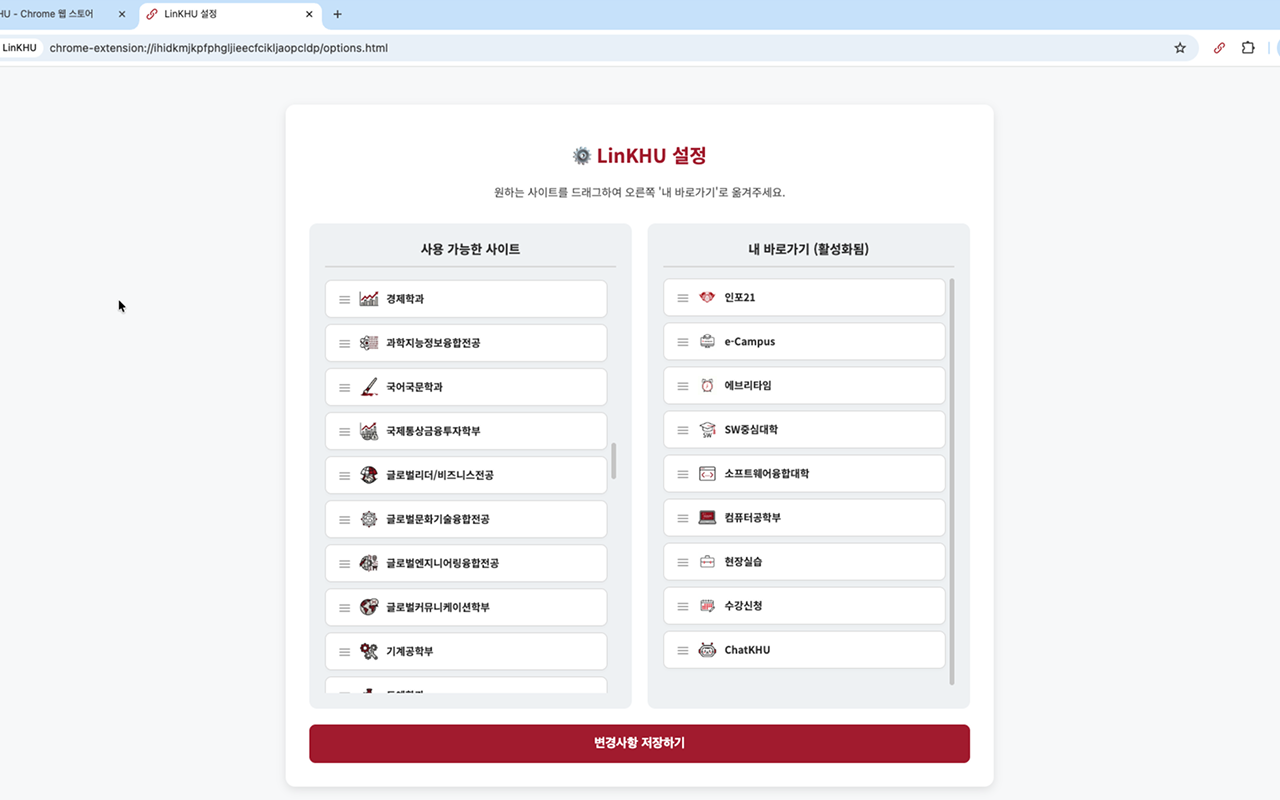
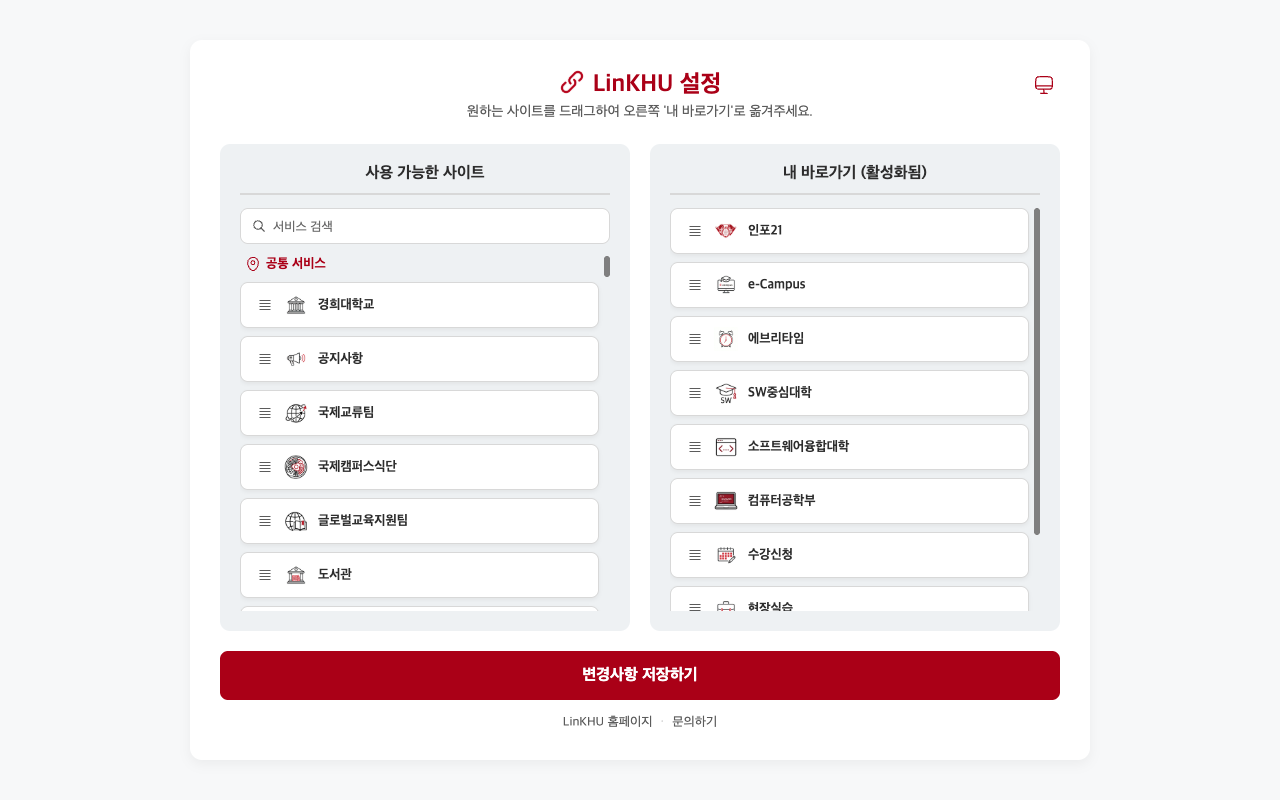
docs: 스크린샷을 v2.4.0 기준으로 교체하고 촬영 기준 문서화
기존 3장은 2026-06-23 촬영본으로 v2.3.1 화면이었다. 경희 공식 색상, 테마
순환 토글, 설정 제목의 서비스 로고, Reicon UI 아이콘, 배경이 투명해진 서비스
아이콘, 이모지가 사라진 카테고리 제목이 하나도 반영되어 있지 않았다.

파일명은 그대로 두어 랜딩과 README의 경로를 고치지 않아도 되게 했다.

- screenshot.png 1280x800 (동일) — 포털 화면에 팝업을 합성한 히어로
- screenshot-options.png 1280x800 (동일)
- screenshot-popup.png 322x377 -> 640x894 (표시 기준 320x447, 2배 해상도)

팝업만 세로 비율이 바뀌었다. v2.3.1에는 없던 검색창과 하단 링크가 늘어난
결과다. 랜딩의 width/height를 표시 기준 1배 치수인 320x447로 고쳤다. 파일
픽셀값을 적으면 두 배 크기로 자리를 잡는다.

.popup-frame은 고정 높이나 종횡비가 없고 height: auto라 이미지 비율이 그대로
프레임 높이가 된다. bottom 기준으로 위로 34px 자라지만 .flow-visual과
.settings-frame 상단을 넘지 않아 CSS는 고치지 않았다. 히어로가 들어가는
.browser-screen은 aspect-ratio 16/10이고 새 이미지도 1280x800이라 그대로다.
README 두 개는 width만 있고 height가 없어 손댈 것이 없었다.

docs/screenshot-guide.md를 새로 만들었다. 해상도·배율·여백, 합성 좌표,
그리고 포털 로그인 화면의 개인정보를 CSS visibility로 숨긴 뒤 스크립트를
멈추고 찍는 절차를 남겼다. 텍스트를 지우면 비동기 재렌더로 되살아난다.
release checklist의 스크린샷 항목 두 곳에서 이 문서를 링크한다.

diff --git a/docs/index.html b/docs/index.html
@@ -355,8 +355,8 @@
             <div class="popup-frame">
               <img
                 src="assets/screenshots/screenshot-popup.png"
-                width="322"
-                height="377"
+                width="320"
+                height="447"
                 loading="lazy"
                 alt="9개의 자주 쓰는 서비스가 배치된 LinKHU 팝업"
               >

diff --git a/docs/screenshot-guide.md b/docs/screenshot-guide.md
@@ -1,0 +1,94 @@
+# Screenshot Guide
+
+랜딩 페이지(`docs/index.html`), README 두 개, 스토어 등록 정보에 쓰는 스크린샷의 촬영 기준입니다. **다음 릴리스에서 같은 구도로 다시 찍을 수 있도록** 해상도, 여백, 상태를 고정합니다.
+
+파일은 `docs/assets/screenshots/`에 있고 **파일명을 바꾸지 않습니다** — 랜딩과 README가 경로를 하드코딩하고 있습니다.
+
+## 촬영 대상과 규격
+
+| 파일 | 크기 | 배율 | 내용 |
+| --- | --- | --- | --- |
+| `screenshot-popup.png` | 640×894 | **2배** (표시 320×447) | 팝업만 |
+| `screenshot-options.png` | 1280×800 | 1배 | 설정 페이지 |
+| `screenshot.png` | 1280×800 | 1배 | 히어로 — 포털 화면에 팝업을 합성 |
+
+- 팝업만 2배로 찍는다. 랜딩에서 작게(폭 31%) 표시되는데 1배로는 흐려 보인다. 나머지 둘은 크게 표시되므로 1배로 충분하다.
+- 랜딩의 `width`/`height` 속성은 **표시 기준 1배 치수**를 적는다(`320`/`447`). 파일 픽셀값을 적으면 두 배 크기로 자리를 잡는다.
+
+## 공통 원칙
+
+- **브라우저 탭바·주소창을 넣지 않는다** (MUST). 랜딩이 `.browser-dots`·`.browser-address`로 프레임을 직접 그리므로, 이미지에도 크롬이 있으면 두 겹이 된다.
+- **라이트 테마로 찍는다** (MUST). 기존 이미지가 라이트이고 랜딩·README 레이아웃이 그에 맞춰져 있다. 다크 테마 스크린샷을 추가하려면 배치 자리를 먼저 정해야 한다.
+- **검색창은 비운 상태로 찍는다** (MUST). 검색어가 남아 있으면 목록이 걸러진 상태가 찍힌다.
+- 툴바 팝업을 띄울 필요가 없다. 확장을 로드한 뒤 확장 페이지를 **직접 열어** 찍는다.
+
+```
+chrome-extension://<확장 ID>/popup.html
+chrome-extension://<확장 ID>/options.html
+```
+
+## 팝업 — `screenshot-popup.png`
+
+- 뷰포트 **320×447**, `deviceScaleFactor: 2` → 결과 640×894.
+- 기본 바로가기 9개가 3×3으로 들어차고, 상단 검색창과 하단 링크(`홈페이지 · 문의하기`)까지 잘리지 않아야 한다.
+- 세로 447px은 v2.4.0의 자연 높이다. **UI 요소가 늘거나 줄면 이 값을 다시 재고, 랜딩의 `height` 속성도 같이 고친다** (MUST).
+
+## 설정 — `screenshot-options.png`
+
+- 뷰포트 **1280×800**, 1배.
+- 왼쪽 `사용 가능한 사이트`와 오른쪽 `내 바로가기`가 모두 보이고, 아래 `변경사항 저장하기` 버튼까지 들어가야 한다.
+- 스크롤은 맨 위에 둔다.
+
+## 히어로 — `screenshot.png`
+
+포털 화면 위에 팝업이 열린 것처럼 **합성**한다.
+
+1. `portal.khu.ac.kr`을 뷰포트 **1280×800**으로 찍는다.
+2. 팝업을 **우측 상단**에 올린다.
+
+| 값 | 설정 |
+| --- | --- |
+| 여백 | 위 `20px`, 오른쪽 `16px` |
+| 모서리 반경 | `12px` |
+| 그림자 | spread `18px`, offset `6px` |
+
+### ⚠ 포털은 로그인이 필요한 페이지다 — 개인정보 처리 (MUST)
+
+로그인 상태로 찍으므로 이름, 학번, 사진, 장학·메시지 내역이 화면에 있다.
+
+**텍스트를 지우는 방식은 통하지 않는다.** 포털이 비동기로 다시 렌더해 되살아난다. 반드시 다음 순서로 한다.
+
+1. **CSS 규칙으로 숨긴다** (`visibility: hidden`). 요소를 지우지 않으므로 레이아웃이 무너지지 않는다.
+2. **스크립트를 멈춘다** — `Emulation.setScriptExecutionDisabled`. 이후 재렌더가 일어나지 않는다.
+3. 그 상태에서 촬영한다.
+
+숨김 대상 선택자입니다.
+
+```text
+.stu_info_w
+li.name.bar_line
+.main_user_w
+.main_user_box
+.comInfo
+.user_text01, .user_text02, .user_text03
+p.name
+img[src*=userPhoto.do]
+.portlet[class*=1003]    장학조회 패널 본문
+.portlet[class*=1018]    메시지(PUSH) 패널 본문
+```
+
+4. **촬영 후 '보이는 텍스트'만 스캔해 개인정보가 없는지 확인한다** (MUST). 숨긴 요소를 제외한 실제 노출 텍스트를 훑는다.
+5. 확대해서 눈으로도 한 번 더 확인한다. 작은 글씨는 1280×800에서 읽히지 않으므로 상단 바, 좌측 열, 패널 본문을 2배로 잘라 본다.
+
+**공개 저장소와 스토어에 올라가는 이미지다.** 확신이 없으면 올리지 않는다.
+
+## 촬영 후 확인
+
+- 세 파일의 실제 픽셀 크기가 위 표와 같은지 확인한다.
+- `npm run build`를 실행한다.
+- 랜딩을 로컬 HTTP 서버로 열어 **라이트·다크 양쪽에서** 레이아웃이 깨지지 않는지 확인한다. 특히 `.popup-frame`은 고정 높이가 없어 이미지 종횡비가 그대로 프레임 높이가 된다.
+- README 두 개의 이미지 표를 확인한다. `width`만 있고 `height`가 없으므로 종횡비가 바뀌어도 손댈 필요는 없지만, 표가 깨지지 않는지는 본다.
+
+## 후속 과제 후보
+
+- **다크 테마 스크린샷.** 3단계 테마 전환이 v2.4.0의 주요 기능인데 현재 스크린샷은 라이트만 있어 드러나지 않는다. 추가하려면 랜딩과 README에 배치 자리를 새로 만들어야 하므로 별도 작업으로 다룬다.
